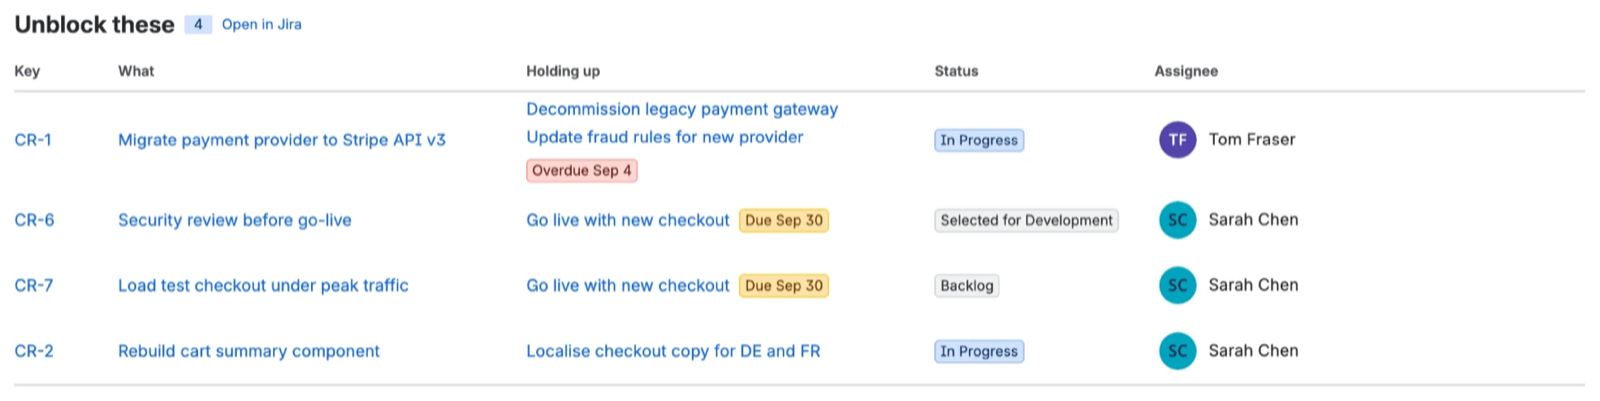
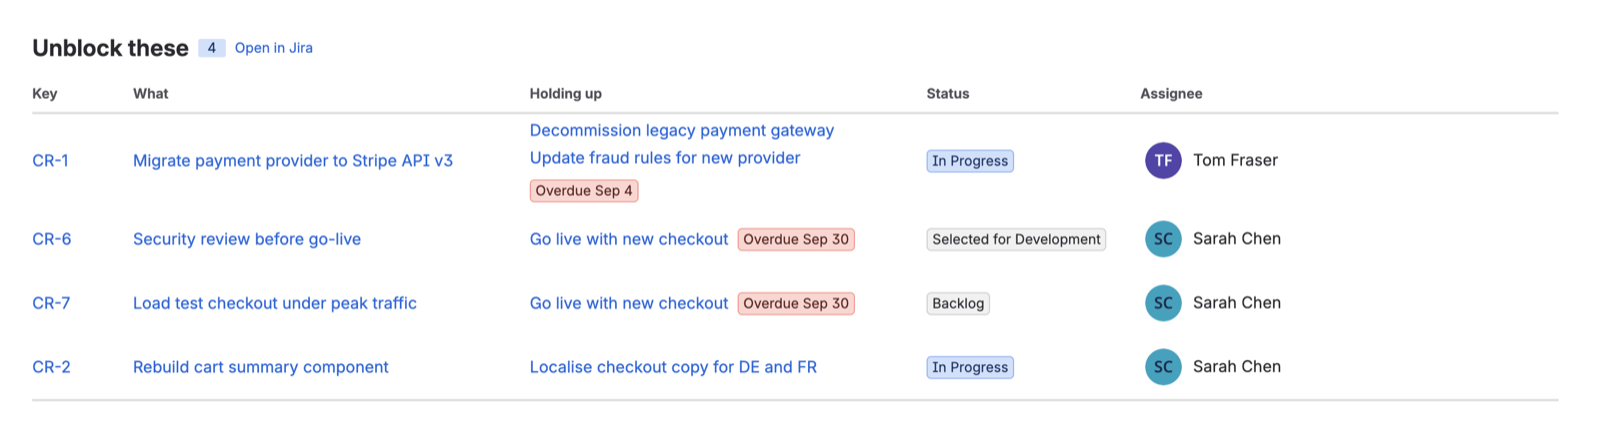
Show the current demo data on the How it works page
The screenshots read 80% freshness and 'silent 20 days' on every row, from
before the demo project's touches were staggered. They now match the
Marketplace highlights, and the captions describe the new numbers.

diff --git a/how-it-works/index.html b/how-it-works/index.html
@@ -26,8 +26,8 @@
 <h2>The figures at the top</h2>
 
 <figure class="wide">
-<a href="../img/figures.png"><img src="../img/figures.png" alt="The header band reading 80% data freshness, 5 in progress, 1 not updated in the last 7 days." loading="lazy"></a>
-<figcaption>Five items in progress, four of them touched within the last seven days. That is where 80% comes from, and the item left over is the 1.</figcaption>
+<a href="../img/figures.png"><img src="../img/figures.png" alt="The header band reading 60% data freshness, 5 in progress, 2 not updated in the last 7 days." loading="lazy"></a>
+<figcaption>Five items in progress, three of them touched within the last seven days. That is where 60% comes from, and the two left over are the 2.</figcaption>
 </figure>
 
 <p><strong>In progress</strong> — how many work items in the project are in a status Jira classifies as <em>In Progress</em>. Not the status <em>name</em>, the category, so your own workflow names are respected.</p>
@@ -49,8 +49,8 @@
 </ul>
 
 <figure class="wide">
-<a href="../img/needs-action.png"><img src="../img/needs-action.png" alt="The Needs action now table with four rows, each showing a reason such as Overdue, silent 20 days." loading="lazy"></a>
-<figcaption>Four rows flagged, while the figure above reads one. Only CR-5 is in progress, so only CR-5 is counted there — the rules in this section are wider, which is why the two numbers disagree.</figcaption>
+<a href="../img/needs-action.png"><img src="../img/needs-action.png" alt="The Needs action now table with four rows, each showing a reason such as Overdue, silent 33 days." loading="lazy"></a>
+<figcaption>Four rows flagged, while the figure above reads two. Only CR-5 and CR-4 are in progress, so only they are counted there — the rules in this section are wider, which is why the two numbers disagree.</figcaption>
 </figure>
 
 <p><strong>Epics are excluded from the silence rules.</strong> Work on an epic's children does not update the epic, so an active epic looks abandoned. Flagging them would fill the list with noise.</p>
